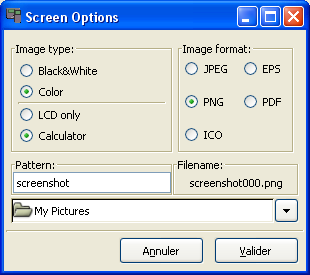
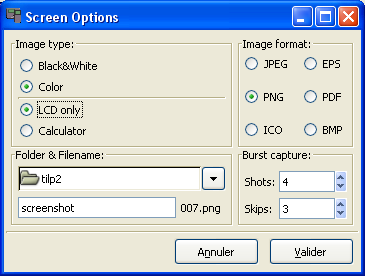
Updated html manual.
git-svn-id: http://svn.tilp.info/repos/tiemu@2195 4f589446-7ac1-0310-82c7-a055b08196ef

diff --git a/tiemu/trunk/help/chapter08.html b/tiemu/trunk/help/chapter08.html
@@ -44,25 +44,33 @@ From the popup menu, select <span style="font-style: italic;">Screenshot
 &gt; Options</span>:<br>
 <br>
 <div style="text-align: center;"><span
- style="text-decoration: underline;"><img alt="" src="screenshot.png"
- style="width: 310px; height: 275px;"></span><br>
+ style="text-decoration: underline;"></span><img alt=""
+ src="screenshot.png" style="width: 365px; height: 276px;"><br>
 </div>
 <br>
 <br>
-TiEmu currently supports 5 image formats: JPG (jpeg), PNG, ICO (Windows
-Icon), EPS (Encapsulated PostScript) and PDF (Adobe Portable Document
+TiEmu currently supports 6 image formats: JPG (jpeg), PNG, ICO (Windows
+Icon), BMP, EPS (Encapsulated PostScript) and PDF (Adobe Portable
+Document
 Format) on both
 platforms. Image can be saved as color or B&amp;W. You can choose to
 save the whole window or just the LCD area.<br>
 <br>
 Unless changed with the drop-down button menu, screenshots are saved in
-the screenshot folder (C:\Program Files\TiEmu\screenshots).
+the application folder (C:\Program Files\TiEmu).
 <br>
 Filename is built by TiEmu with:<br>
 - a pattern : the base name,<br>
 - a counter which is incremented every time you trigger a snapshot (but
 saved if you save the whole configuration),<br>
 - an extension depending on the image format.<br>
+<br>
+Starting of TiEmu 2.81b, you can take several (n) screenshots at once
+(burst capture) every (m-1) frames .<br>
+The 'n' value is fixed by the <span style="font-style: italic;">shots </span>button
+while the 'm' value is specified by the <span
+ style="font-style: italic;">skips </span>button.<br>
+The example abolve will trigger 4 captures every 4 LCD frames.<br>
 <h2>8.2 To use it</h2>
 From the popup menu, select <span style="font-style: italic;">Screenshot
 &gt; Now !</span> or simply press F9 for doing a screenshot with the
